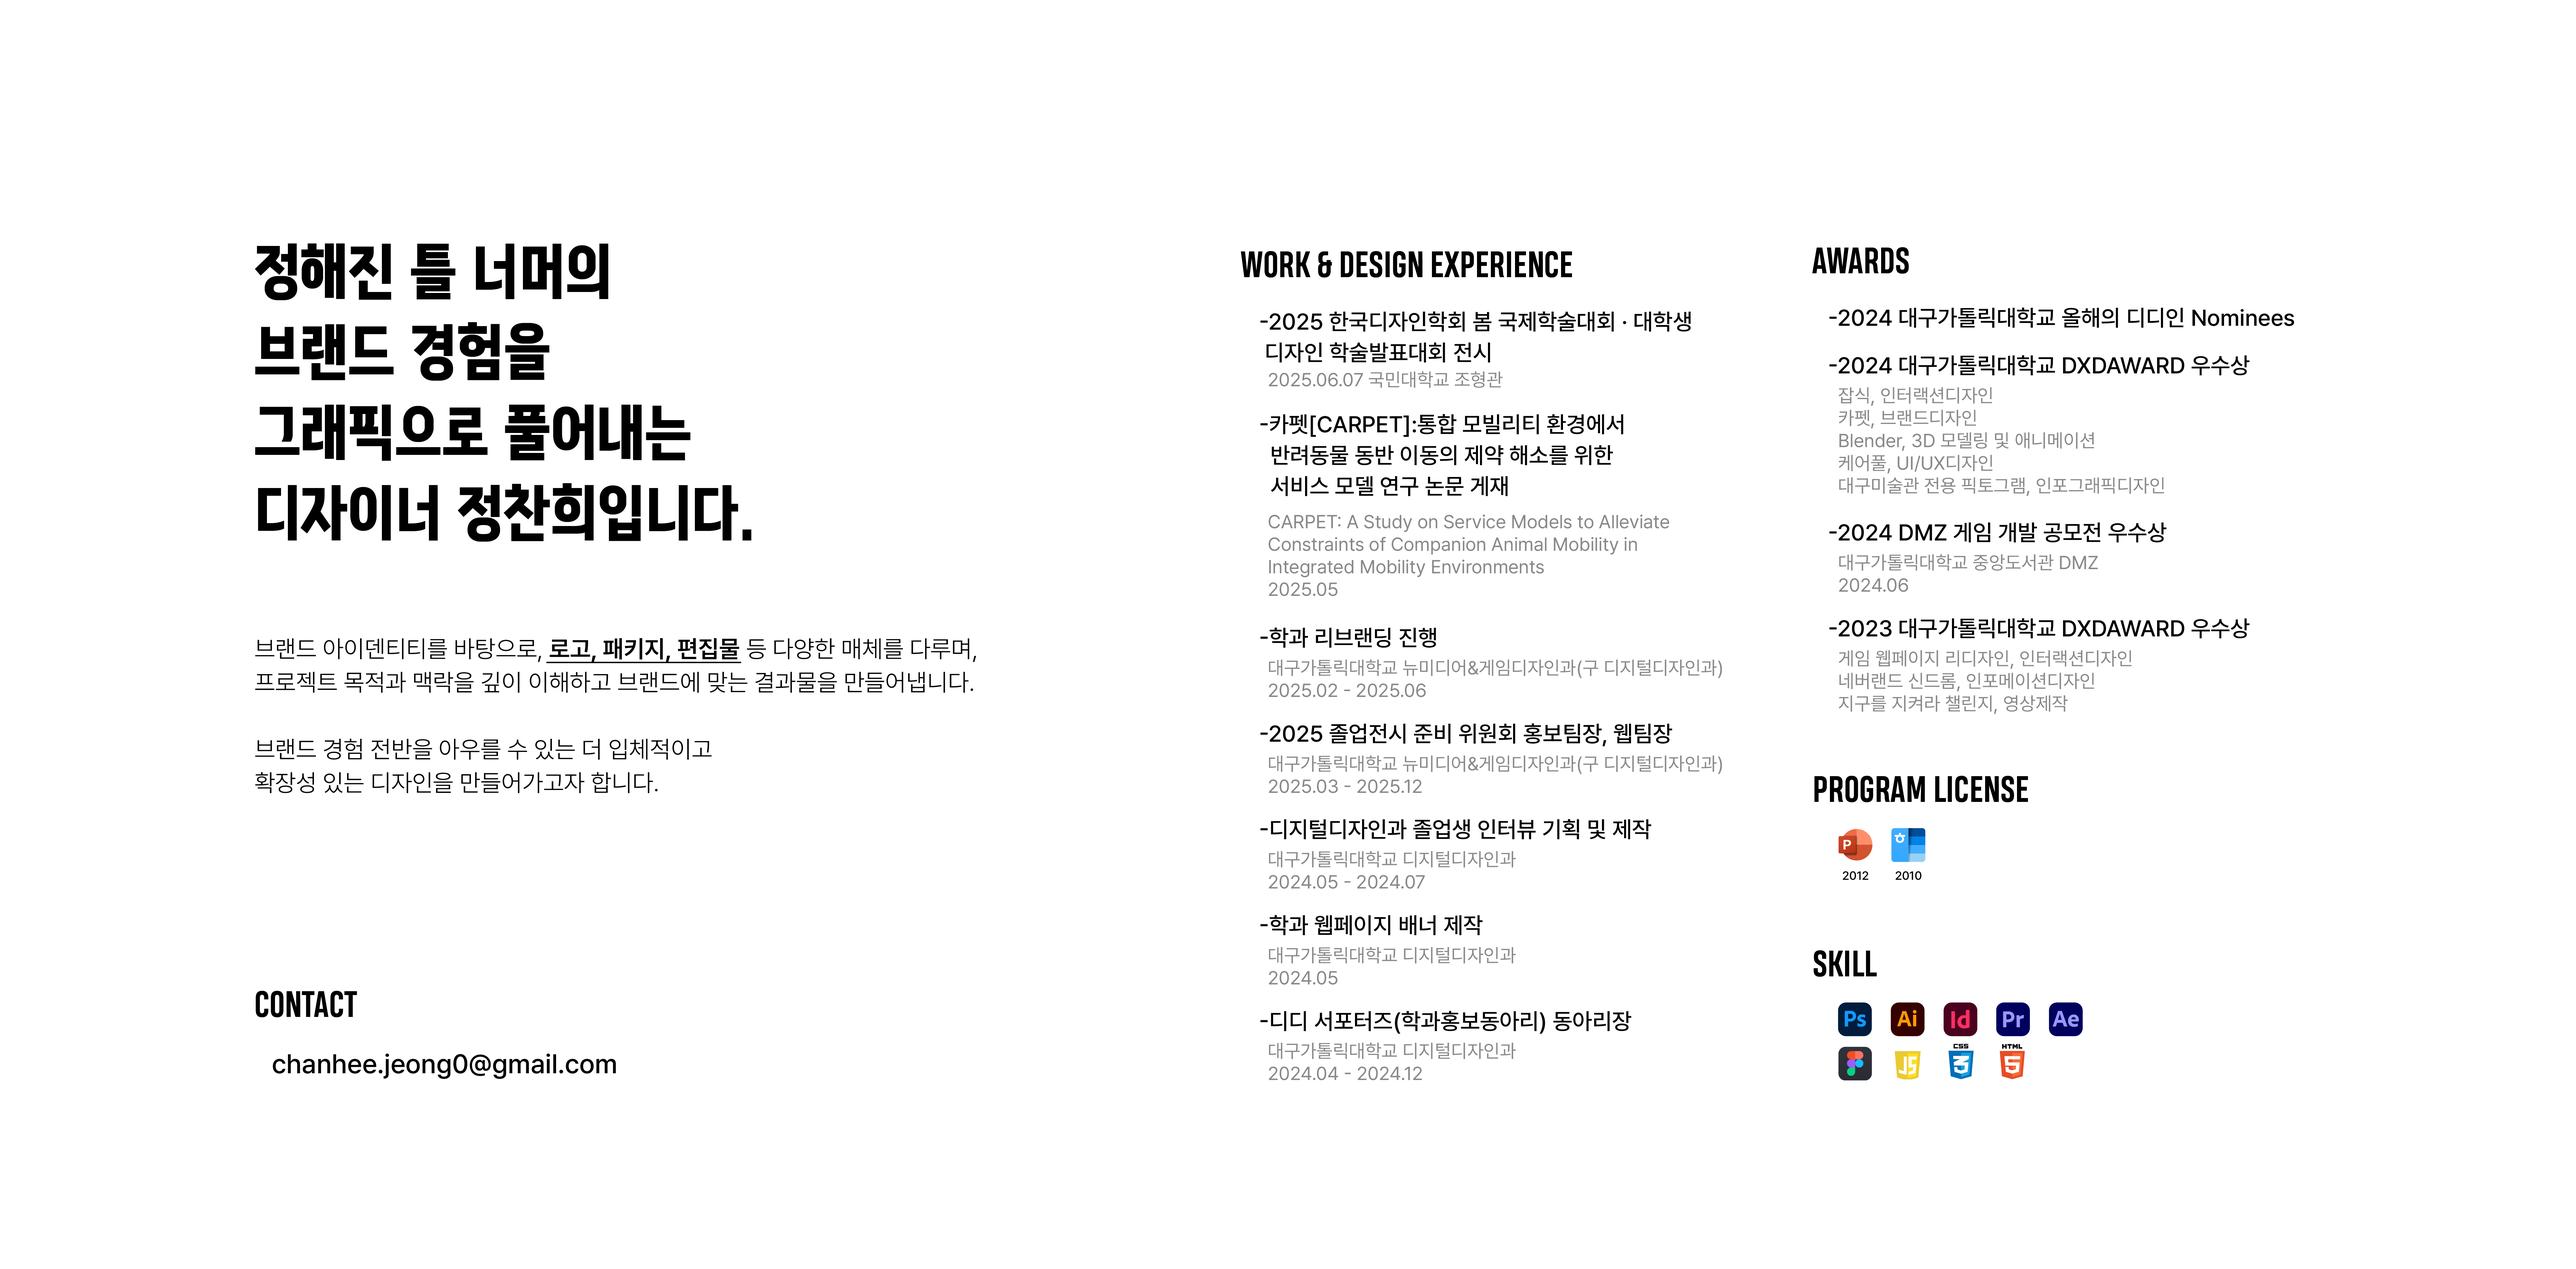
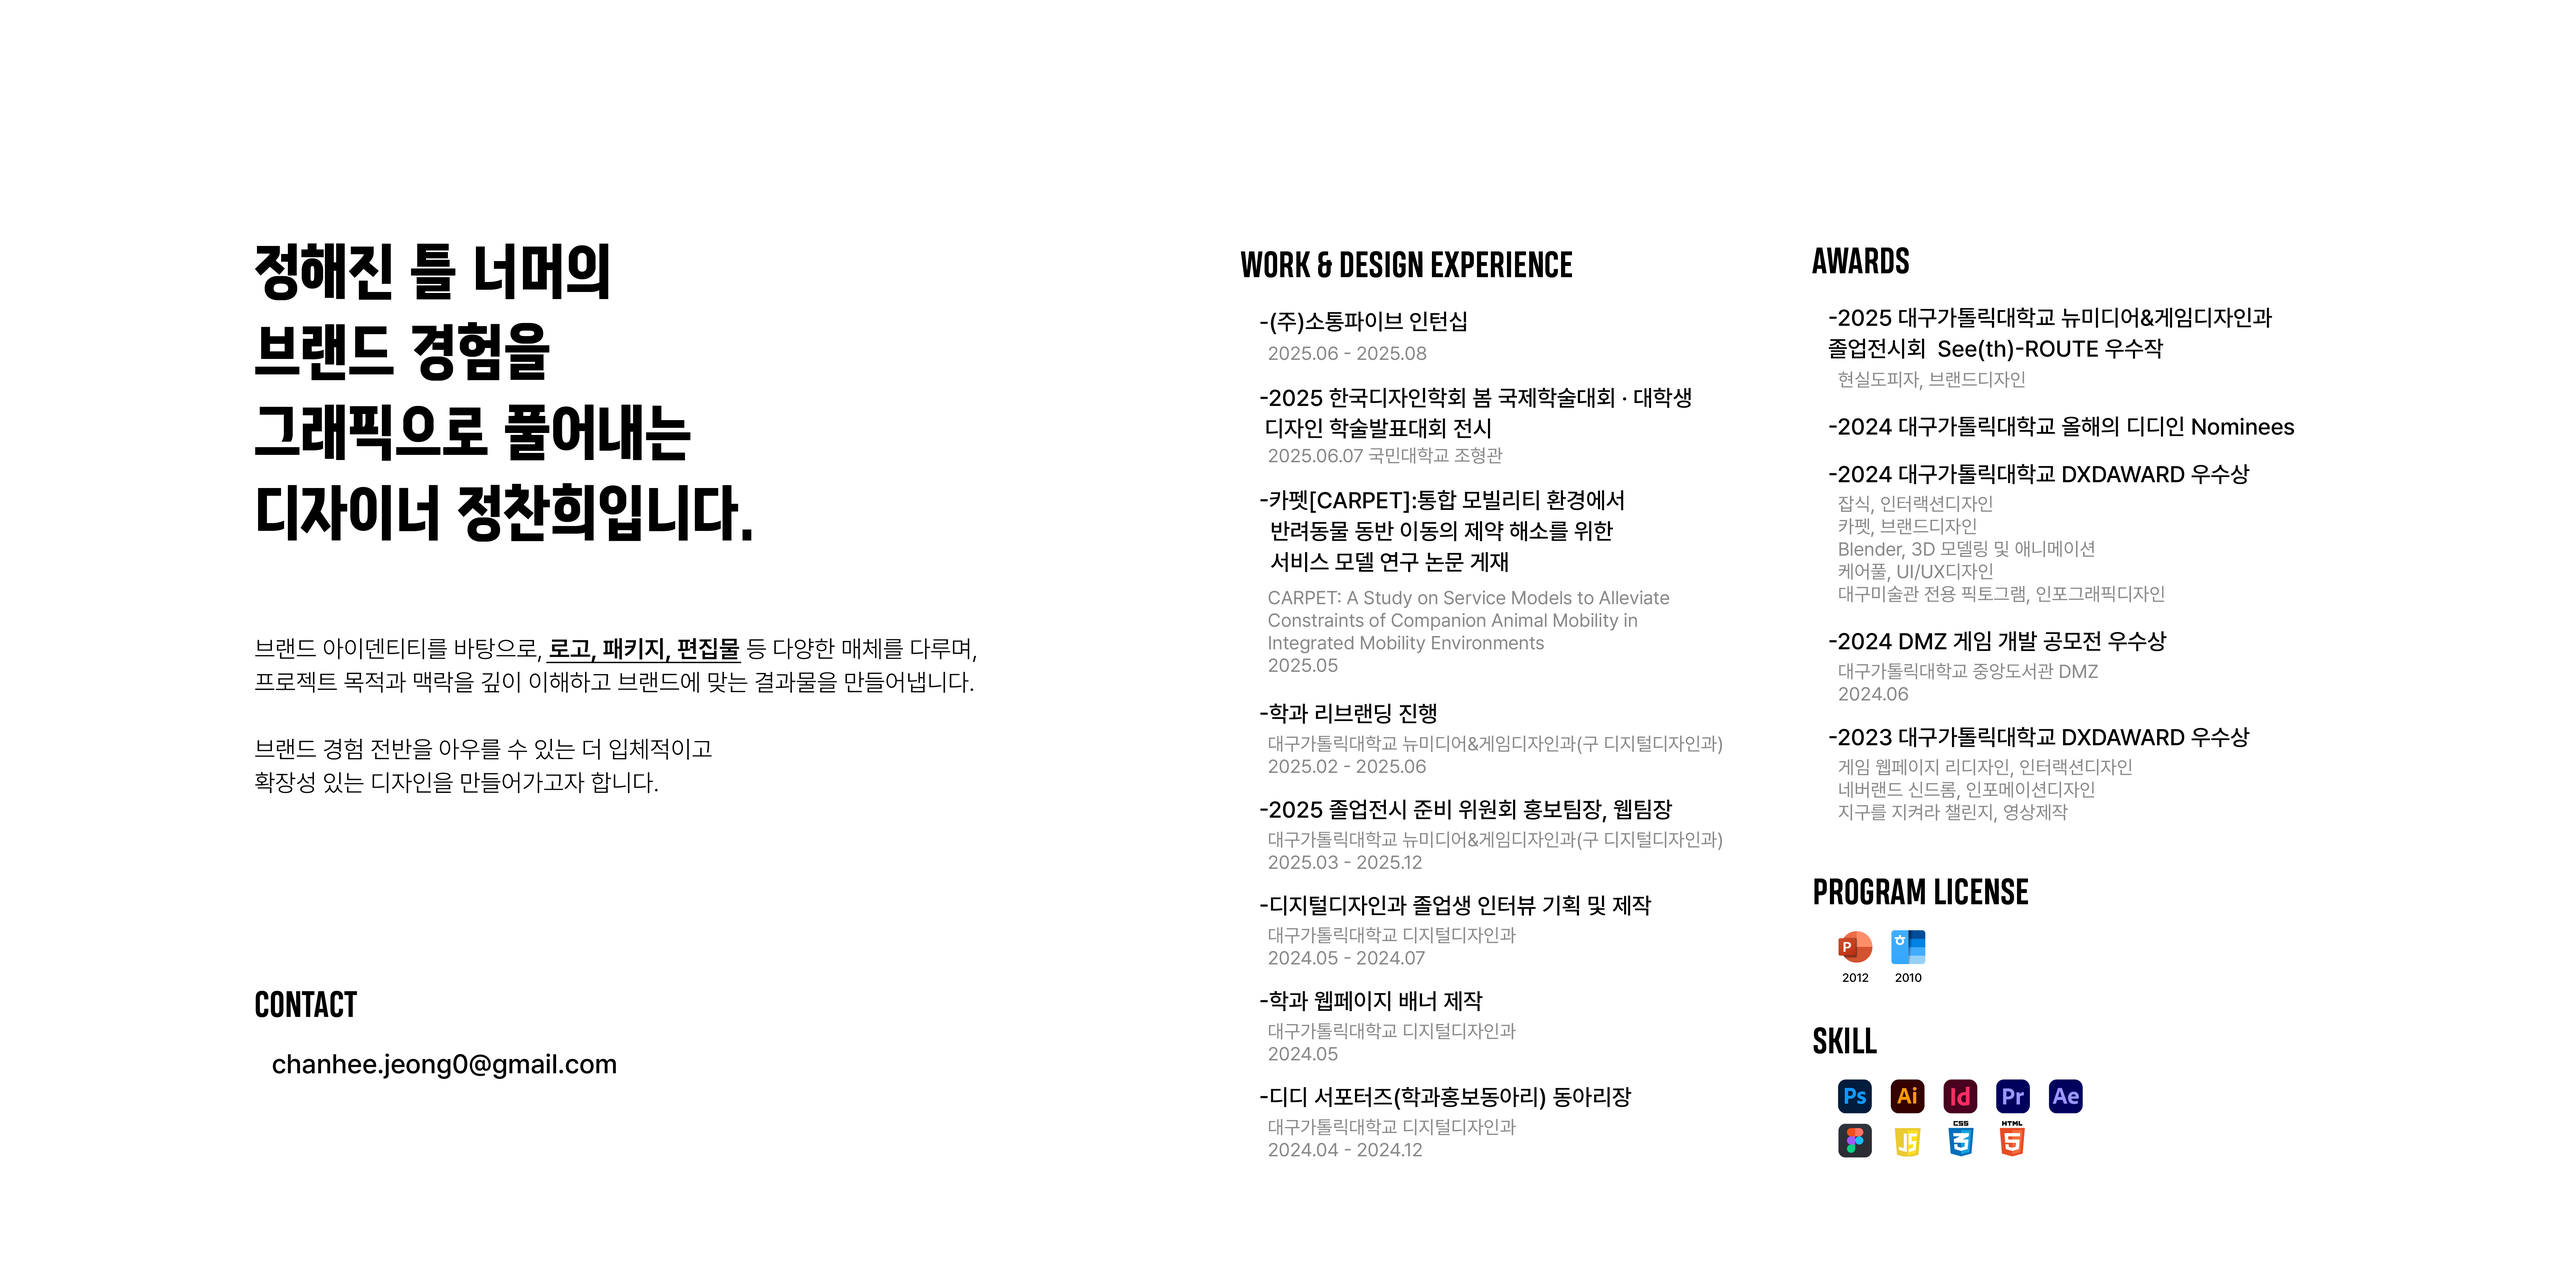
ver.8

Changed region(s): [[0.4688, 0.2496, 0.6562, 0.9049], [0.6875, 0.2496, 0.875, 0.9049]]

diff --git a/index.html b/index.html
@@ -120,12 +120,12 @@
       </div>
       <div class="mac-body" id="macBody">
         <iframe class="content-frame" id="contentFrame"></iframe>
-        <div class="folder" data-link="image-viewer4.html"><img src="folderp.png" alt=""><div class="label">Typography</div></div>
+        <div class="folder" data-link="image-viewer.html?img=Typography.png"><img src="folderp.png" alt=""><div class="label">Typography</div></div>
         <div class="folder" data-link="image-viewer2.html"><img src="folderp.png" alt=""><div class="label">Web</div></div>
-        <div class="folder" data-link="image-viewer5.html"><img src="folderp.png" alt=""><div class="label">Graphic</div></div>
-        <div class="folder" data-link="image-viewer6.html"><img src="folderp.png" alt=""><div class="label">BX 01</div></div>
+        <div class="folder" data-link="image-viewer.html?img=Frame 9.png"><img src="folderp.png" alt=""><div class="label">Graphic</div></div>
+        <div class="folder" data-link="image-viewer.html?img=bx.png"><img src="folderp.png" alt=""><div class="label">BX 01</div></div>
         <div class="folder" data-link="image-viewer3.html"><img src="folderp.png" alt=""><div class="label">BX 02</div></div>
-        <div class="folder" data-link="Web.html"><img src="folder.webp" alt=""><div class="label">UI/UX</div></div>
+        <div class="folder" data-link="image-viewer4.html"><img src="folderp.png" alt=""><div class="label">BX 03</div></div>
         <div class="folder" data-link="Interaction.html"><img src="folder.webp" alt=""><div class="label">Interaction</div></div>
         <div class="folder" data-link="MotionGraphic.html"><img src="folder.webp" alt=""><div class="label">Motion Graphic</div></div>
       </div>

diff --git a/image-viewer2.html b/image-viewer2.html
@@ -9,18 +9,18 @@
   </style>
 </head>
 <body>
-  <img src="j/j1.png" alt="j1" decoding="async" loading="eager">
-  <img src="j/j2.gif" alt="j2" decoding="async" loading="eager">
-  <img src="j/j4.png" alt="j4" decoding="async" loading="eager">
-  <img src="j/j5.gif" alt="j5" decoding="async" loading="eager">
-  <img src="j/j3.gif" alt="j3" decoding="async" loading="eager">
-  <img src="j/j6.png" alt="j6" decoding="async" loading="eager">
-  <img src="j/j7.png" alt="j7" decoding="async" loading="eager">
-  <img src="j/j8.png" alt="j8" decoding="async" loading="eager">
-  <img src="j/j9.gif" alt="j9" decoding="async" loading="eager">
-  <img src="j/j10.png" alt="j10" decoding="async" loading="eager">
-  <img src="j/j11.png" alt="j11" decoding="async" loading="eager">
-  <img src="j/j12.png" alt="j12" decoding="async" loading="eager">
-  <img src="j/j13.png" alt="j13" decoding="async" loading="eager">
+  <img src="j/j1.png" alt="j1">
+  <img src="j/j2.gif" alt="j2">
+  <img src="j/j3.gif" alt="j3">
+  <img src="j/j4.png" alt="j4">
+  <img src="j/j5.gif" alt="j5">
+  <img src="j/j6.png" alt="j6">
+  <img src="j/j7.png" alt="j7">
+  <img src="j/j8.png" alt="j8">
+  <img src="j/j9.gif" alt="j9">
+  <img src="j/j10.png" alt="j10">
+  <img src="j/j11.png" alt="j11">
+  <img src="j/j12.png" alt="j12">
+  <img src="j/j13.png" alt="j13">
 </body>
 </html>

diff --git a/image-viewer3.html b/image-viewer3.html
@@ -9,7 +9,7 @@
   </style>
 </head>
 <body>
-  <img id="img" src="c1.png" alt="c1" alt="Preview" decoding="async" loading="eager">
-  <img id="img" src="c2.png" alt="c2" alt="Preview" decoding="async" loading="eager">
+  <img src="c1.png" alt="c1">
+  <img src="c2.png" alt="c2">
 </body>
 </html>

diff --git a/image-viewer.html b/image-viewer.html
@@ -19,6 +19,7 @@
 
 </head>
 <body>
+  <img id="img" src="" alt="Preview" decoding="async" loading="eager">
   <script>
     const params = new URLSearchParams(window.location.search);
     const imgSrc = params.get('img');

diff --git a/image-viewer4.html b/image-viewer4.html
@@ -9,6 +9,6 @@
   </style>
 </head>
 <body>
-  <img id="img" src="Typography.png" alt="t1" alt="Preview" decoding="async" loading="eager">
+  <img src="RAP.png" alt="c1">
 </body>
 </html>
